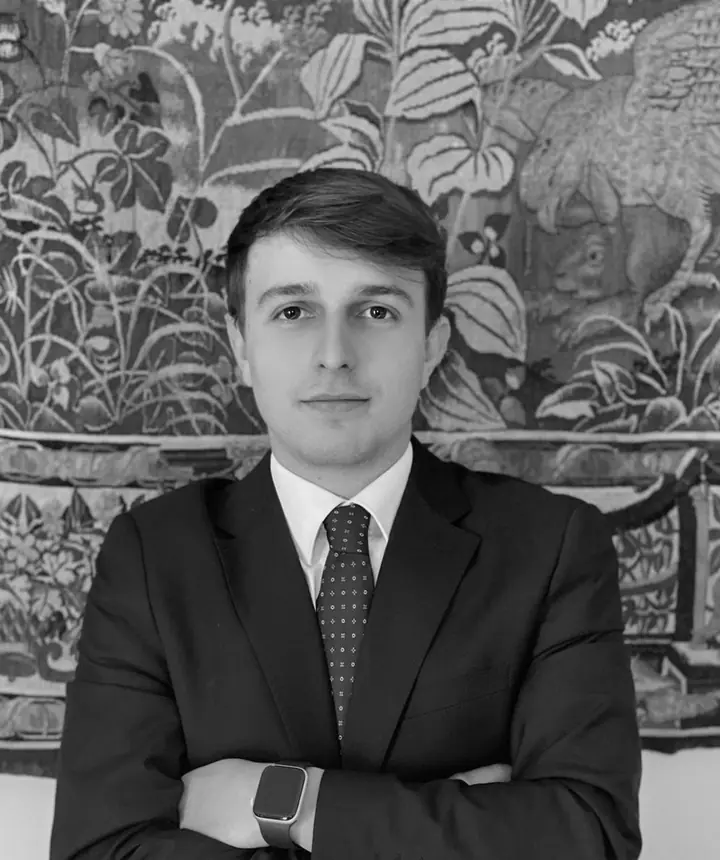
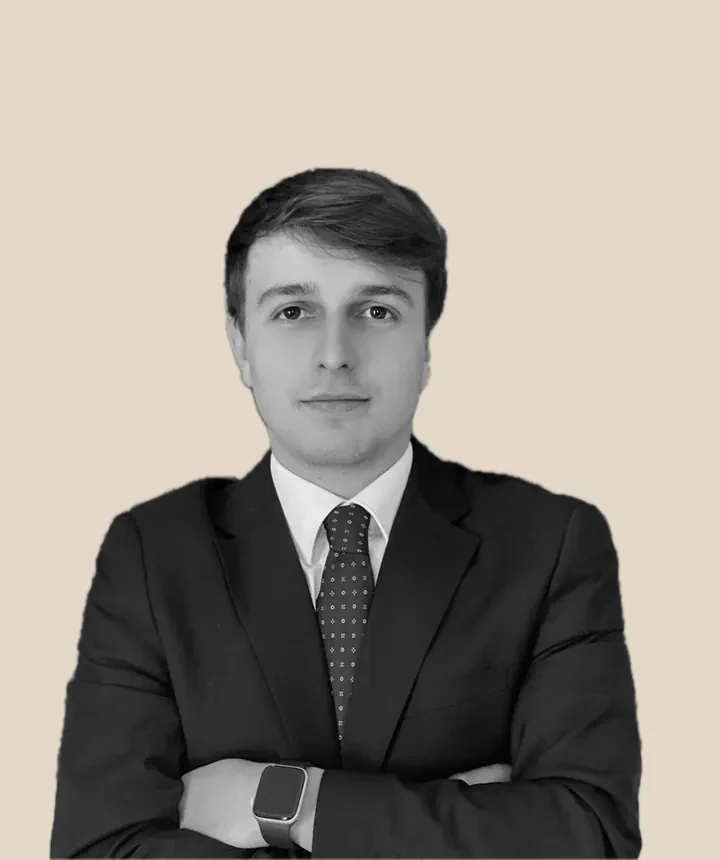
Pearled Ivory: righe laterali di nuovo visibili su telefono e ritratti senza l'arazzo, su fondo unito
Claude-Session: https://claude.ai/code/session_01Wy7DVW5wX2vvupRHZKEsXH

diff --git a/asciutta-2g/css/style.css b/asciutta-2g/css/style.css
@@ -324,14 +324,13 @@ html.su-apertura .testata .bottone--scuro { background: var(--navy); color: var(
 @media (min-width: 992px) and (max-width: 1199px) { .contatti__wrap { grid-template-columns: minmax(0, 300fr) minmax(0, 900fr); } }
 
 /* 12 nov 16:11, Mattia (dal professore): «logo molto più grande e testo sotto più piccolo».
-   Logo da 294-880 a 340-1280 px (a 1440 è l'89% della larghezza); sotto i 560 px i fili orizzontali resterebbero dei moncherini e si tolgono.
+   Logo da 294-880 a 300-1280 px (a 1440 è l'89% della larghezza; su telefono resta stretto quanto basta per i fili laterali, vedi sotto).
    Testo sotto il titolo da 20-32 a 18-24 px, riga più corta. */
-.apertura--segno { --logo-w: clamp(288px, 15.55px + 87.81vw, 1280px); }   /* 358 px a 390 (bordo a bordo meno il margine), 1280 a 1440 */
-@media (max-width: 559px) { .apertura__filo--sx, .apertura__filo--dx { display: none; } }
+.apertura--segno { --logo-w: clamp(270px, -64px + 93.33vw, 1280px); }   /* 12 nov 16:34 (Mattia: «da cellulare spariscono righe laterali»): 300 px a 390 così i fili laterali restano lunghi ~30 px come nella 2D; 1280 a 1440 */
 .testo__primo { max-width: 820px; font-size: clamp(18px, 15.771px + 0.5714vw, 24px); line-height: clamp(28px, 25.029px + 0.7619vw, 36px); }
 @media (max-width: 991px) { .testo__primo { font-size: 18px; line-height: 28px; letter-spacing: 0; } }
 /* il filo sotto l'apertura segue il + del logo, che sta 0,13% a sinistra del centro: col logo grande lo scarto si vede */
-.testo__filo { transform: translateX(calc(-0.00133 * min(clamp(288px, 15.55px + 87.81vw, 1280px), 100vw - 2 * var(--gutter)))); }
+.testo__filo { transform: translateX(calc(-0.00133 * min(clamp(270px, -64px + 93.33vw, 1280px), 100vw - 2 * var(--gutter)))); }
 /* niente sillabe da due lettere a capo («telecomunicazio-ni.») */
 .testo__primo, .testo__blocco p, .persona__descr { hyphenate-limit-chars: 7 3 3; -webkit-hyphenate-limit-before: 3; -webkit-hyphenate-limit-after: 3; }
 
@@ -340,3 +339,6 @@ html.su-apertura .testata .bottone--scuro { background: var(--navy); color: var(
    Testo 16:1, testo-2 6,3-6,5:1, fili 1,9-2:1 (decorativi). */
 :root { --sfondo: #f7f1e5; --superficie: #fcf9f3; --testo-inverso: #f7f1e5; --accento: #f7f1e5; --testo-2: #5c564c; --filo: #b4ada1; --linea: #dad3c6; --linea-inverso: rgb(247 241 229 / 0.16); }
 .testo__filo { background: var(--filo); }   /* stesso grigio dei fili dell'apertura, che ora stanno sullo stesso fondo */
+/* 12 nov 16:36 (Mattia): ritratti senza l'arazzo, sfondo monocromatico. Scontornati con Vision di macOS e messi su un Pearled Ivory più scuro, in B/N */
+.persona__foto { background: #e3d9c8; }
+.persona__foto img { mix-blend-mode: normal; opacity: 1; }
